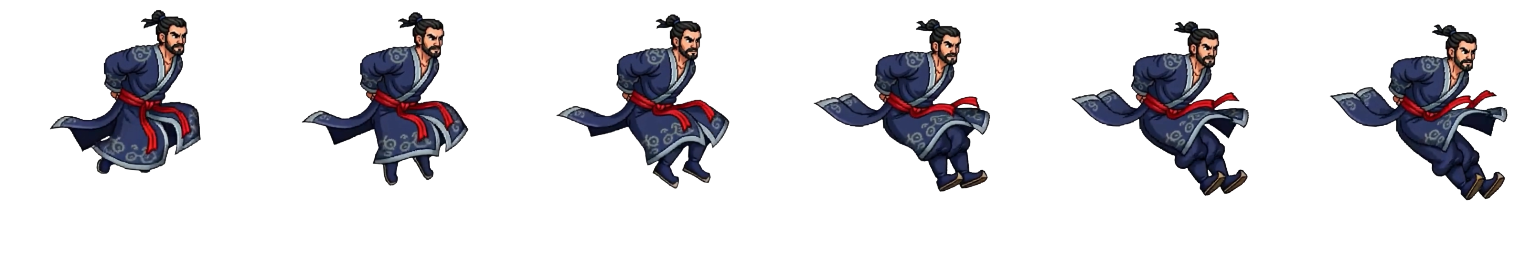
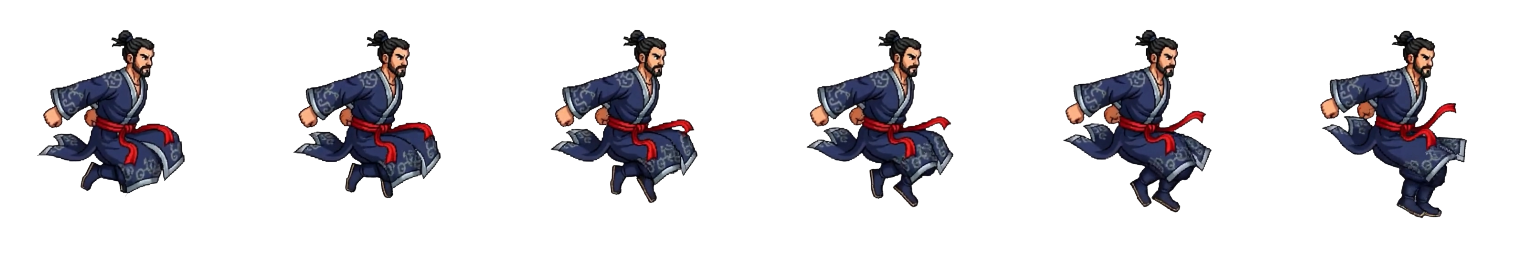
점프 및 하강 에셋 조정 / 히트박스 위치와 사이즈 조정

diff --git a/index.html b/index.html
@@ -45,12 +45,12 @@
         const player = {
             x: 350, y: 100,
             drawWidth: 125, drawHeight: 125,
-            hitboxWidth: 60, hitboxHeight: 100,
-            hitboxOffsetX: 32.5, hitboxOffsetY: 12.5,
+            hitboxWidth: 50, hitboxHeight: 90,
+            hitboxOffsetX: 25, hitboxOffsetY: 15,
             vy: 0, gravity: 0.4, thrust: -1.2, isPressing: false,
             state: 'FALLING', currentFrame: 0, totalFrames: 6,
             frameWidth: 256, frameHeight: 256,
-            tickCount: 0, ticksPerFrame: 6, animDir: 1
+            tickCount: 0, ticksPerFrame: 5, animDir: 1
         };
 
         let jumpEffects = [];
@@ -60,9 +60,9 @@
         function createJumpEffect(px, py, pw, ph) {
             const effSize = 130; 
             jumpEffects.push({
-                x: px + (pw / 2) - (effSize / 2), 
-                y: py + ph - (effSize / 2) - 15, 
-                size: effSize, currentFrame: 0, totalFrames: 6, tickCount: 0, ticksPerFrame: 4
+                x: px + (pw / 2) - (effSize / 2) - 15, 
+                y: py + ph - (effSize / 2) - 19, 
+                size: effSize, currentFrame: 0, totalFrames: 6, tickCount: 0, ticksPerFrame: 3
             });
         }
 
